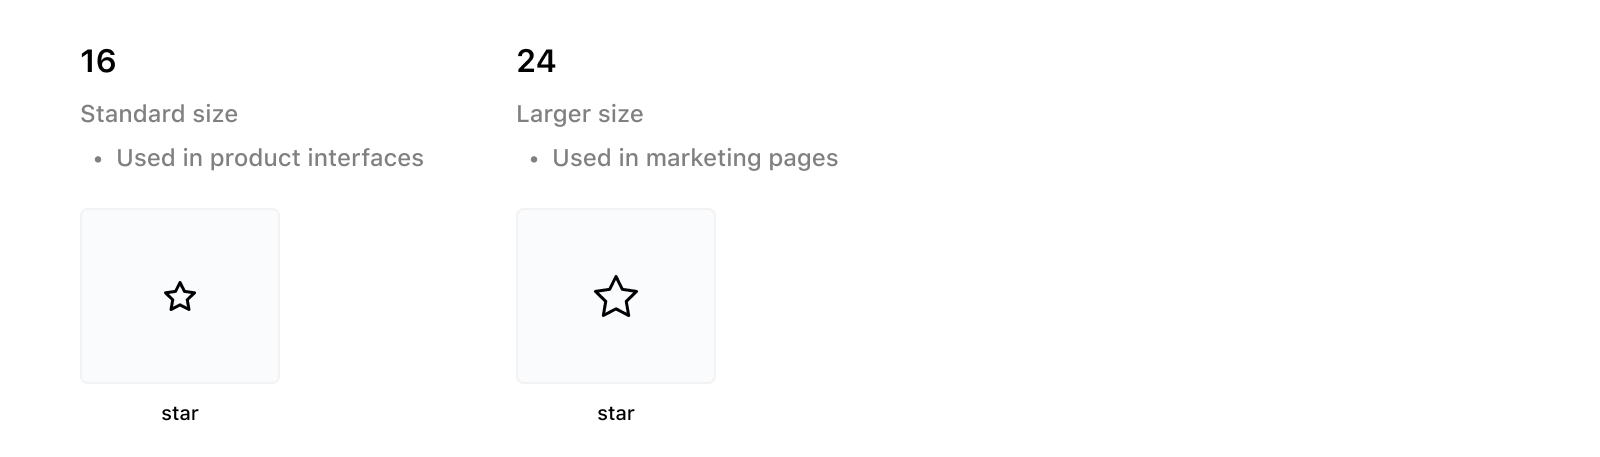
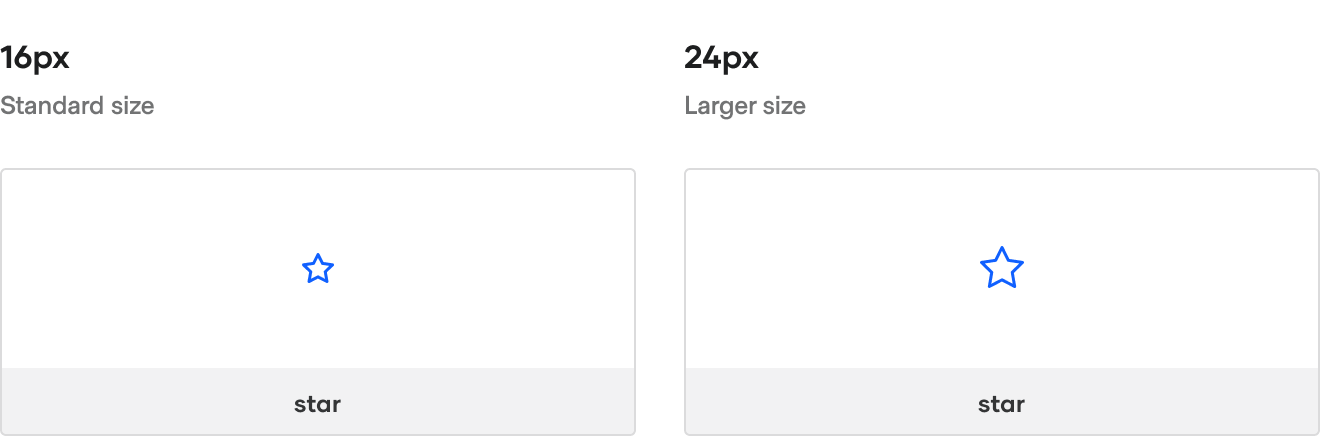
Add images to the design guidelines
- Swapped old imagestourrent Flight website with new ones.
- Made more content update/editing to adapt images.

diff --git a/website/docs/foundations/icons/partials/design-guidelines.md b/website/docs/foundations/icons/partials/design-guidelines.md
@@ -1,6 +1,6 @@
 ## Icon types
 
-There are 4 types of icons in Flight: Outlined, Filled, Off, and Contained.
+There are 4 types of icons: Outlined, Filled, Off, and Contained.
 
 ### Outlined
 
@@ -8,14 +8,14 @@ Glyph with standard outline.
 
 - Preferred default style.
 
-![](/assets/foundations/flight-icons/icon-types-generic.png)
+![](/assets/foundations/flight-icons/icon-types-outlined.png)
 
 - Use the Outlined style icons by default.
 - Use the Filled style where contrast against other icons is important.
 
   For example, when showing 1 failure in a list of 20 otherwise successful builds, use a filled "failure" icon but keep the remaining checkmarks outlined "success" icons, so the failure stands out more.
 
-  ![](/assets/foundations/flight-icons/icon-types-bp-filled-1.png)
+  ![](/assets/foundations/flight-icons/icon-best-practices-filled-1.png)
 
 ### Filled
 
@@ -29,21 +29,21 @@ Glyph with a solid fill.
 
   For example, if an object can receive a "favorite" action, it would show the "generic" outlined variant, and then switch to the "filled" variant once favorited.
 
-  ![](/assets/foundations/flight-icons/icon-types-bp-filled-2.png)
+  ![](/assets/foundations/flight-icons/icon-best-practices-filled-2.png)
 
-### Off`
+### Off
 
 Glyph with a strike-through.
 
 - Disabled state.
 
-![](/assets/foundations/flight-icons/icon-types-st.png)
+![](/assets/foundations/flight-icons/icon-types-off.png)
 
 - Use the Off style icons to indicate a disabled state.
 
   For example, in the favoriting example above, if you wanted to "unfavorite" an object you could swap the "filled" variant for "off" on hover to show what the state will become on click.
 
-  ![](/assets/foundations/flight-icons/icon-types-bp-off.png)
+  ![](/assets/foundations/flight-icons/icon-best-practices-off.png)
 
 ### Contained
 
@@ -57,7 +57,7 @@ Glyph with containing shape, e.g. square, circle, diamond, etc.
 
   For example, in a list of objects, an object might have multiple states. A "contained" icon could be used for the overall state, and additional metadata that has state could use the "outlined" variants.
 
-  ![](/assets/foundations/flight-icons/icon-types-bp-contained.png)
+  ![](/assets/foundations/flight-icons/icon-best-practices-contained.png)
 
 ## Icon sizes
 
@@ -65,21 +65,7 @@ Flight icons are optimized for two icon sizes: 16px and 24px.
 
 ### Optimized sizes
 
-#### 16
-
-Standard size.
-
-- Use in product interfaces.
-
-![](/assets/foundations/flight-icons/icon-sizes-16.png)
-
-#### 24
-
-Larger size.
-
-- Use in marketing pages.
-
-![](/assets/foundations/flight-icons/icon-sizes-24.png)
+![](/assets/foundations/flight-icons/icon-sizes.png)
 
 ### Best practices
 
@@ -107,59 +93,13 @@ Icons frequently get used to represent different states within product interface
 
 An object in our interfaces is any object in our API that can return with a state, such as a Build, a Deployment, a Run, a Job, a Cluster or a Network. Objects are typically displayed in lists or as cards and include their state when presented to the user.
 
-#### In progress
-
-"Building".
-
-![](/assets/foundations/flight-icons/icon-states-progress.png)
-
-#### Succeeded
-
-"Build passed".
-
-![](/assets/foundations/flight-icons/icon-states-succeeded.png)
-
-#### Failed
-
-"Build failed".
-
-![](/assets/foundations/flight-icons/icon-states-failed.png)
-
-
-#### Skipped
-
-"Build skipped".
-
-![](/assets/foundations/flight-icons/icon-states-skipped.png)
+![](/assets/foundations/flight-icons/states-object.png)
 
 ### States of feedback
 
 Feedback is presented in our interfaces when actions occur in response to user interaction, such as pressing a button to submit a form, or prior to an action taking place, such as displaying a warning, or when presenting more information.
 
-#### Success
-
-"Created user".
-
-![](/assets/foundations/flight-icons/icon-states-success.png)
-
-#### Error
-
-"Couldn't create user".
-
-![](/assets/foundations/flight-icons/icon-states-error.png)
-
-#### Warning
-
-"User is near limits".
-
-![](/assets/foundations/flight-icons/icon-states-warning.png)
-
-#### Informational
-
-"User has 5 invites".
-
-
-![](/assets/foundations/flight-icons/icon-states-informational.png)
+![](/assets/foundations/flight-icons/states-feedback.png)
 
 ---
 
@@ -169,76 +109,17 @@ Some icons represent common actions within the product interfaces.
 
 ### Editing actions
 
-#### Create
-
-"Create new team".
-
-![](/assets/foundations/flight-icons/icon-actions-create.png)
-
-
-#### Edit
-
-"Edit this team".
-
-![](/assets/foundations/flight-icons/icon-actions-edit.png)
-
-
-#### Delete
-
-"Delete this item".
-
-![](/assets/foundations/flight-icons/icon-actions-delete.png)
-
-
-#### Copy
-
-"Copy to clipboard".
-
-![](/assets/foundations/flight-icons/icon-actions-copy.png)
+![](/assets/foundations/flight-icons/editing-actions.png)
 
 
 ### Navigation actions
 
-#### Back
-
-"Go back".
-
-![](/assets/foundations/flight-icons/icon-actions-back.png)
-
-
-#### Link
-
-"Visit AWS".
-
-![](/assets/foundations/flight-icons/icon-actions-link.png)
-
-
-#### Close
-
-"Dismiss".
-
-![](/assets/foundations/flight-icons/icon-actions-close.png)
+![](/assets/foundations/flight-icons/navigation-actions.png)
 
 
 ### Help actions
 
-#### Tutorial link
-
-When linking to learn.hashicorp.com.
-
-![](/assets/foundations/flight-icons/icon-help-tutorial-link.png)
-
-#### Doc link
-
-When linking to documentation.
-
-![](/assets/foundations/flight-icons/icon-help-doc-link.png)
-
-#### Support
-
-When referencing HashiCorp support.
-
-![](/assets/foundations/flight-icons/icon-help-support.png)
+![](/assets/foundations/flight-icons/help-actions.png)
 
 ---
 
